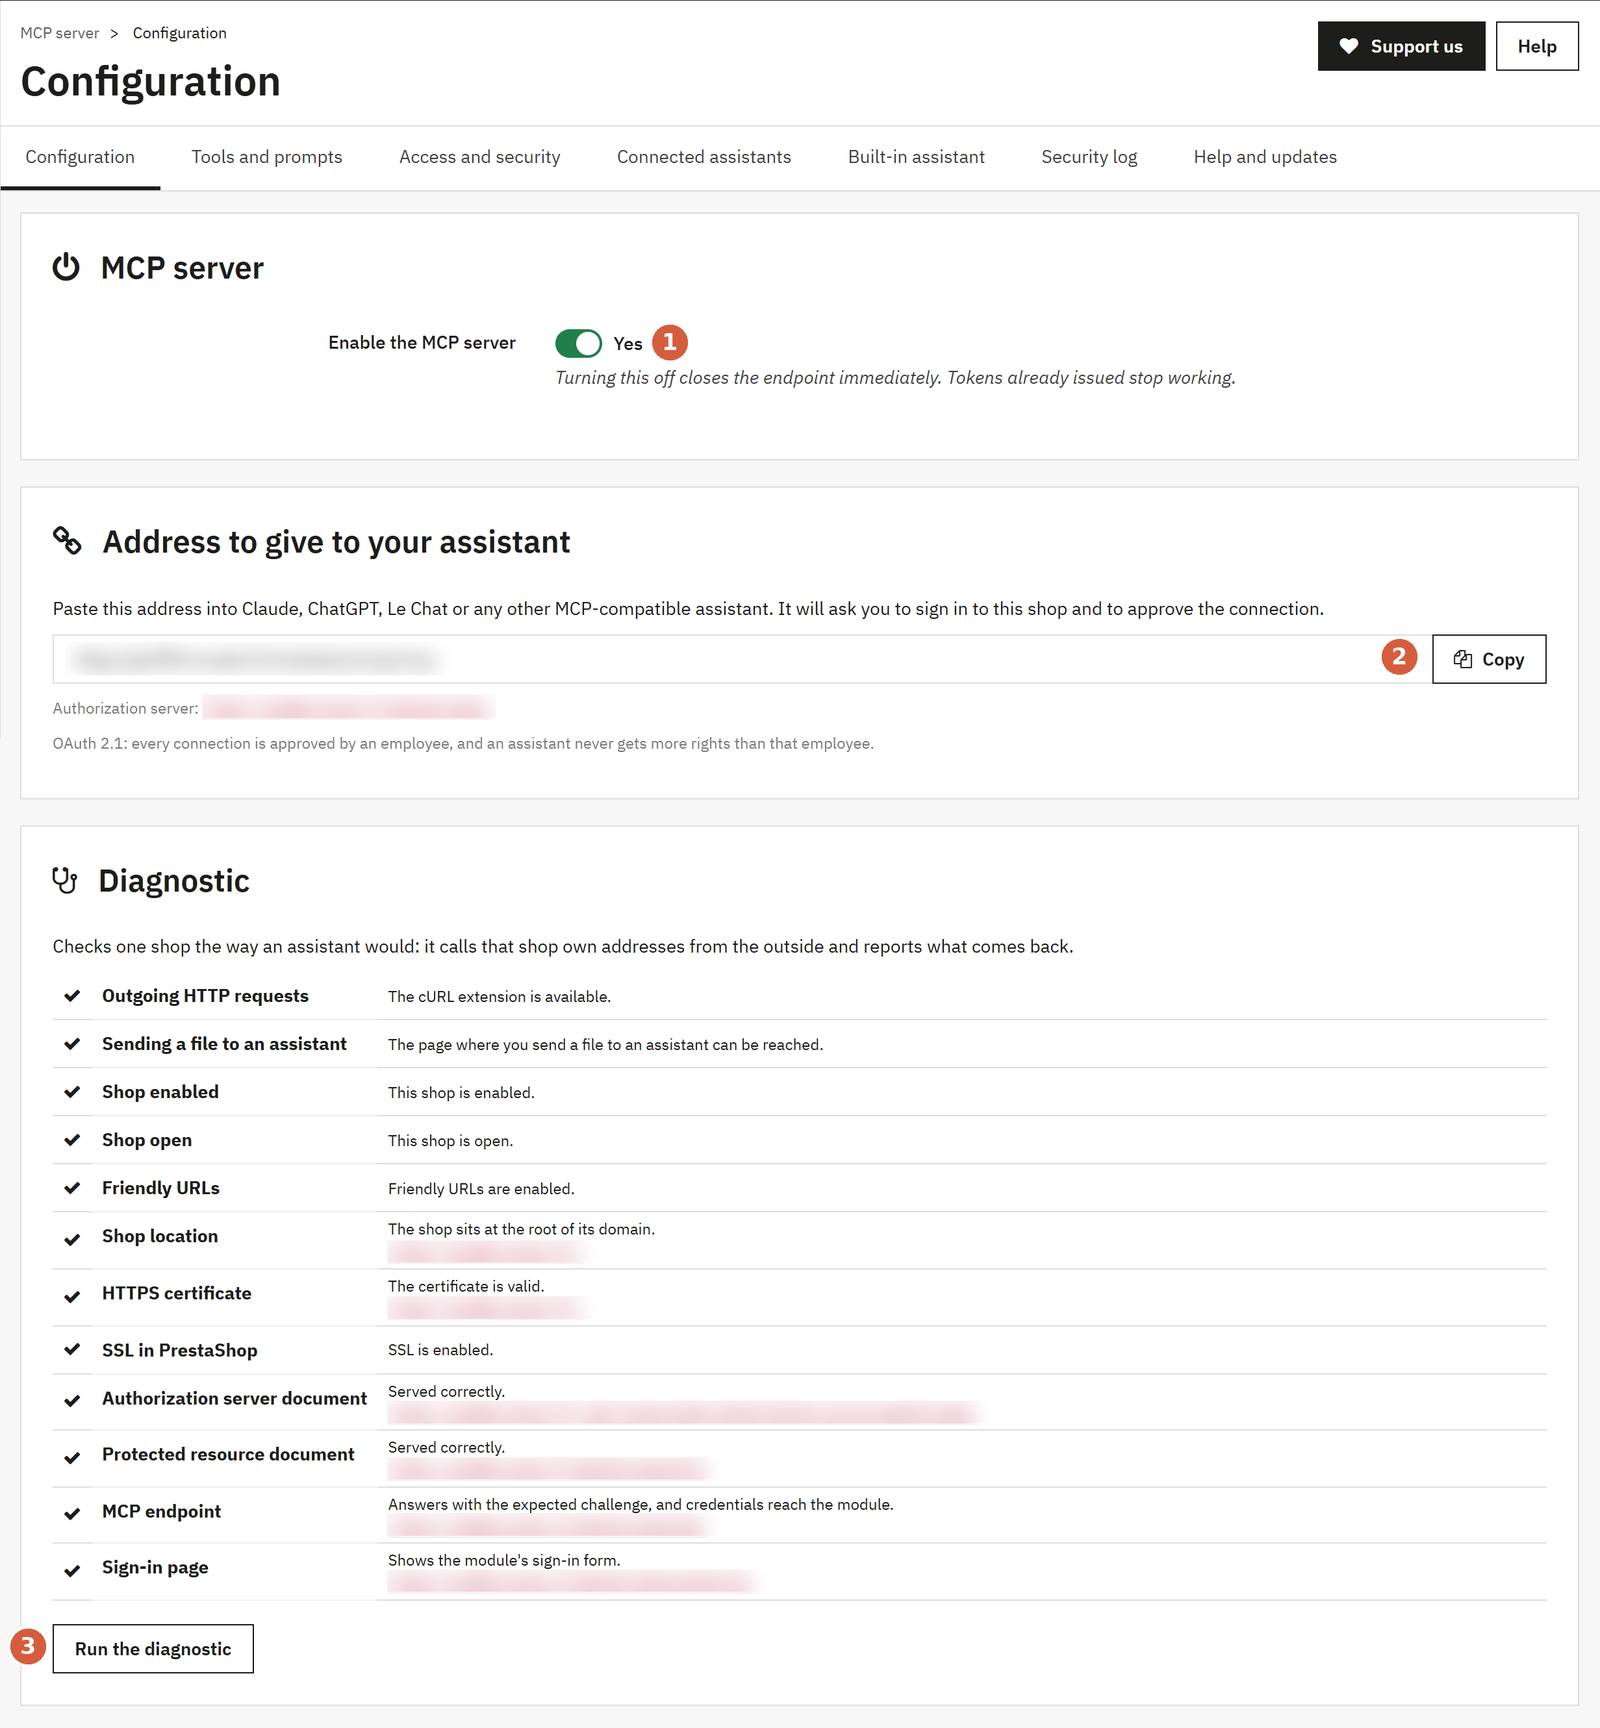
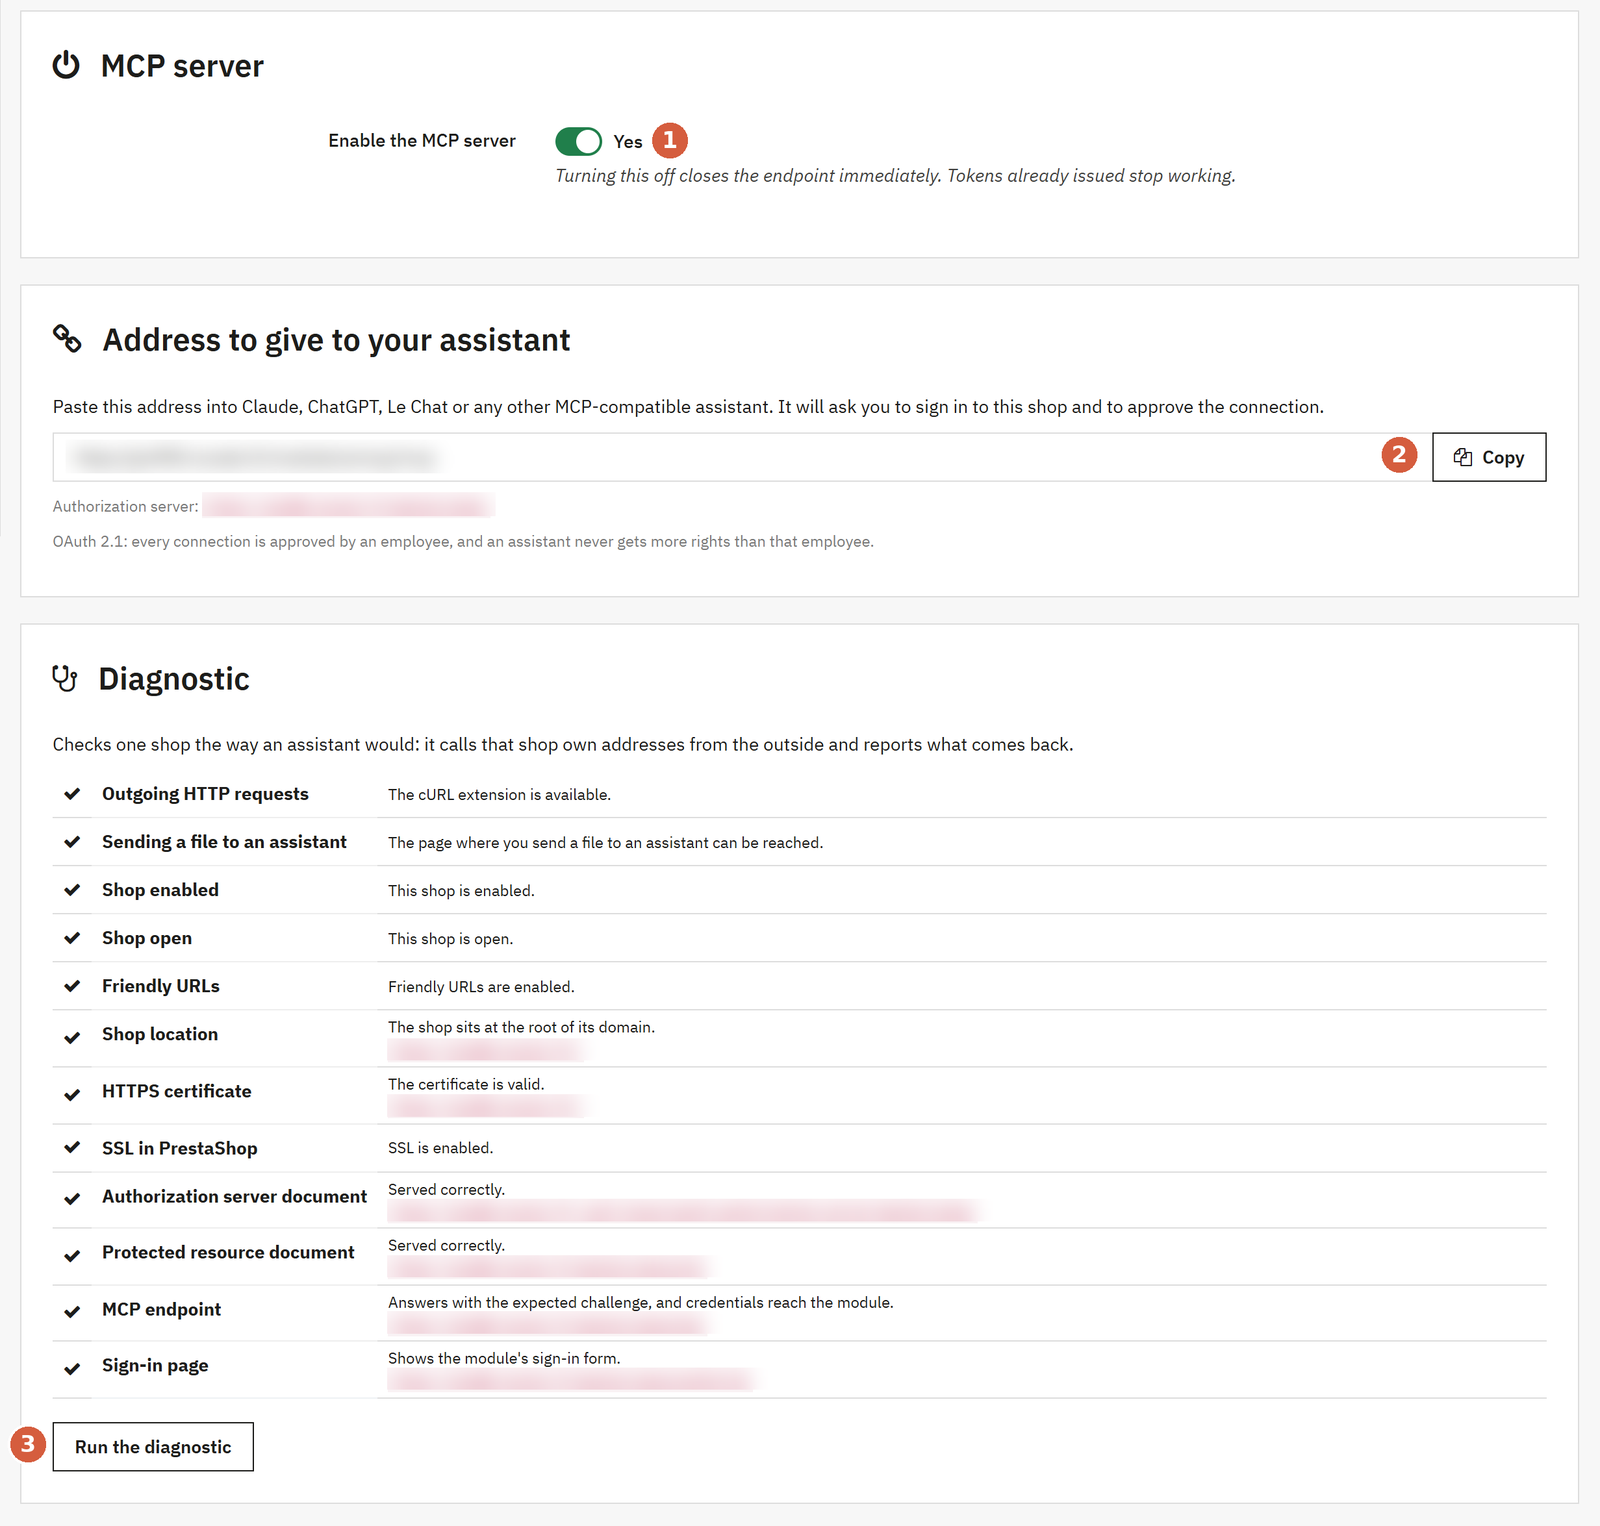
Prepare 2.1.0
The entries under Unreleased become 2.1.0: the settings that open on one
card per page, and the tools for the stores, the contact details, the
translations, the customer groups, the search engines and meta pages, the
URL schema and SEO settings, the carriers, the logos, and the CMS pages and
their categories.

Y moves: the pages of the settings are no longer tabs under the MCP server
item, so upgrade/upgrade-2.1.0.php puts their menu entries where a fresh
install puts them. Nothing changed in sql/, and no hook or setting was
added.

What still showed the tabs is brought in line in the same pass. The guide
gains a picture of the cards, and its three pictures that started on the
tab band now start on the first panel, as the others do. The tour of the
README is taken again on PrestaShop 9.2.1, from the cards through the seven
pages. CONTRIBUTING.md calls Tools and prompts a page.

The update from 2.0.6 was run on PrestaShop 9.2.1 by uploading the zip in
the module manager: the version reads 2.1.0 and the seven pages are out of
the menu.

diff --git a/upgrade/upgrade-2.1.0.php b/upgrade/upgrade-2.1.0.php
@@ -1,0 +1,42 @@
+<?php
+/**
+ * NOTICE OF LICENSE
+ *
+ * This source file is subject to the Academic Free License version 3.0
+ * that is bundled with this package in the file LICENSE.txt.
+ * It is also available through the world-wide-web at this URL:
+ * https://opensource.org/licenses/AFL-3.0
+ * If you did not receive a copy of the license and are unable to obtain
+ * it through the world-wide-web, please send an email to
+ * contact@novalo.fr so we can send you a copy immediately.
+ *
+ * @author    Novalo <contact@novalo.fr>
+ * @copyright 2026 Novalo
+ * @license   https://opensource.org/licenses/AFL-3.0 Academic Free License v3.0 (AFL-3.0)
+ */
+if (!defined('_PS_VERSION_')) {
+    exit;
+}
+
+function upgrade_module_2_1_0($module)
+{
+    Somcp::bootClasses();
+
+    // The settings now open on one card per page, and the pages are no longer
+    // tabs under the MCP server item. A fresh install puts their menu entries
+    // out of the menu; on a shop upgrading in place they are still under the
+    // item, where PrestaShop draws them as tabs and sends the menu to the
+    // first of them. installTabs() moves them, and leaves alone every entry
+    // that is already right.
+    if (!$module->installTabs()) {
+        return false;
+    }
+
+    // PrestaShop 9 keeps a compiled copy of the menu until its cache is
+    // rebuilt.
+    if (method_exists('Tools', 'clearSf2Cache')) {
+        Tools::clearSf2Cache();
+    }
+
+    return true;
+}

diff --git a/somcp.php b/somcp.php
@@ -114,7 +114,7 @@ class Somcp extends Module
     {
         $this->name = 'somcp';
         $this->tab = 'administration';
-        $this->version = '2.0.6';
+        $this->version = '2.1.0';
         $this->author = 'Novalo';
         $this->need_instance = 0;
         $this->bootstrap = true;

diff --git a/CONTRIBUTING.md b/CONTRIBUTING.md
@@ -397,7 +397,7 @@ any tool whose `acts()` is not a `view`.
      first, then **●** for a read or **✎** for a write and the tool's title as
      the code gives it, then the back office page as the menu names it and the
      right it needs (`view`, `add`, `edit` or `delete`);
-   - nothing on the settings page: the **Tools and prompts** tab lists the
+   - nothing on the settings page: the **Tools and prompts** page lists the
      tool under the group of its scope by itself, with the group's switches
      (see "Switching a group off" in `docs/TOOLS.md`);
    - a line in `CHANGELOG.md`, under `## Unreleased`;

diff --git a/docs/guide/en.md b/docs/guide/en.md
@@ -24,7 +24,9 @@ subtitle: Connect Claude, ChatGPT and other AI assistants to your PrestaShop sho
 
 ### Step 2 - Open the settings
 
-**Configure**. The settings are in **Shop Parameters > MCP server**.
+**Configure**. The settings are in **Shop Parameters > MCP server**, which opens on one card per page: click a card ① to open its page. Each page ends on a button back to the cards.
+
+![Shop Parameters > MCP server](images/19-cards.png)
 
 To update later, upload the new zip the same way. Settings are kept.
 

diff --git a/CHANGELOG.md b/CHANGELOG.md
@@ -16,6 +16,8 @@ are:
 
 ## Unreleased
 
+## 2.1.0 - 2026-11-28
+
 ### Added
 
 **Create a CMS page category.** The new tool somcp_create_cms_category does
